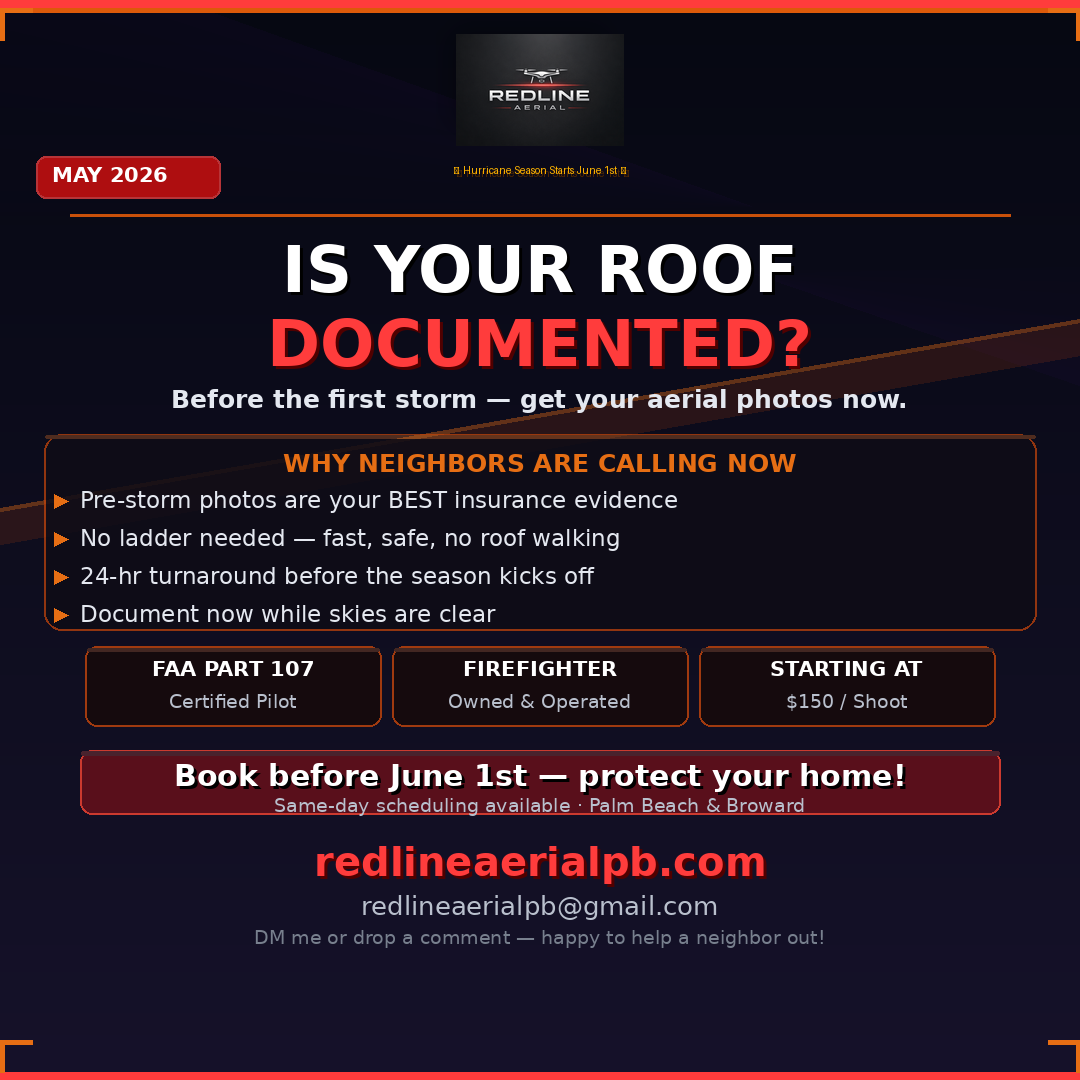
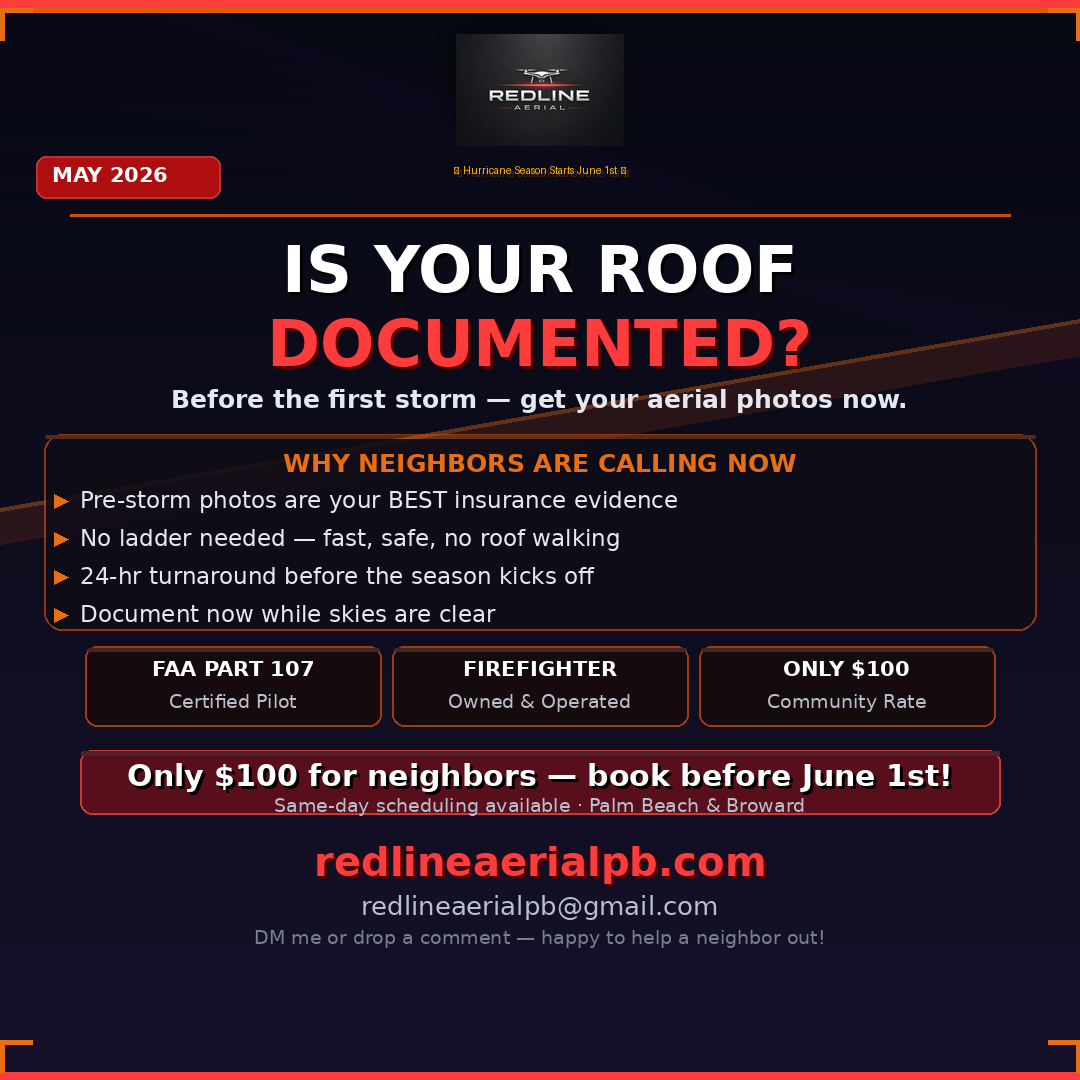
Update May post with $100 community rate pricing
https://claude.ai/code/session_01TShf96Cw6NChsA6xqwr4ky

Changed region(s): [[0.1222, 0.7028, 0.8861, 0.7333], [0.7028, 0.6111, 0.8556, 0.6722]]

diff --git a/scripts/generate_may_post.py b/scripts/generate_may_post.py
@@ -188,7 +188,7 @@ bdy = card_y + 212
 badges = [
     ("FAA PART 107", "Certified Pilot"),
     ("FIREFIGHTER", "Owned & Operated"),
-    ("STARTING AT", "$150 / Shoot"),
+    ("ONLY $100", "Community Rate"),
 ]
 bw, bh = 296, 80
 bx0 = (W - (bw * 3 + 22)) // 2
@@ -214,7 +214,7 @@ cb = ImageDraw.Draw(cta_l)
 cb.rounded_rectangle([81, cta_y + 1, W - 81, cta_y + 5], radius=3, fill=(255, 100, 80, 60))
 base = overlay_rgba(base, cta_l)
 draw = ImageDraw.Draw(base)
-cx(draw, cta_y + 8,  "Book before June 1st — protect your home!", f_bold_md, WHITE, shadow=True)
+cx(draw, cta_y + 8,  "Only $100 for neighbors — book before June 1st!", f_bold_md, WHITE, shadow=True)
 cx(draw, cta_y + 44, "Same-day scheduling available · Palm Beach & Broward", f_reg_xs, SILVER)
 
 domain_y = cta_y + 88
